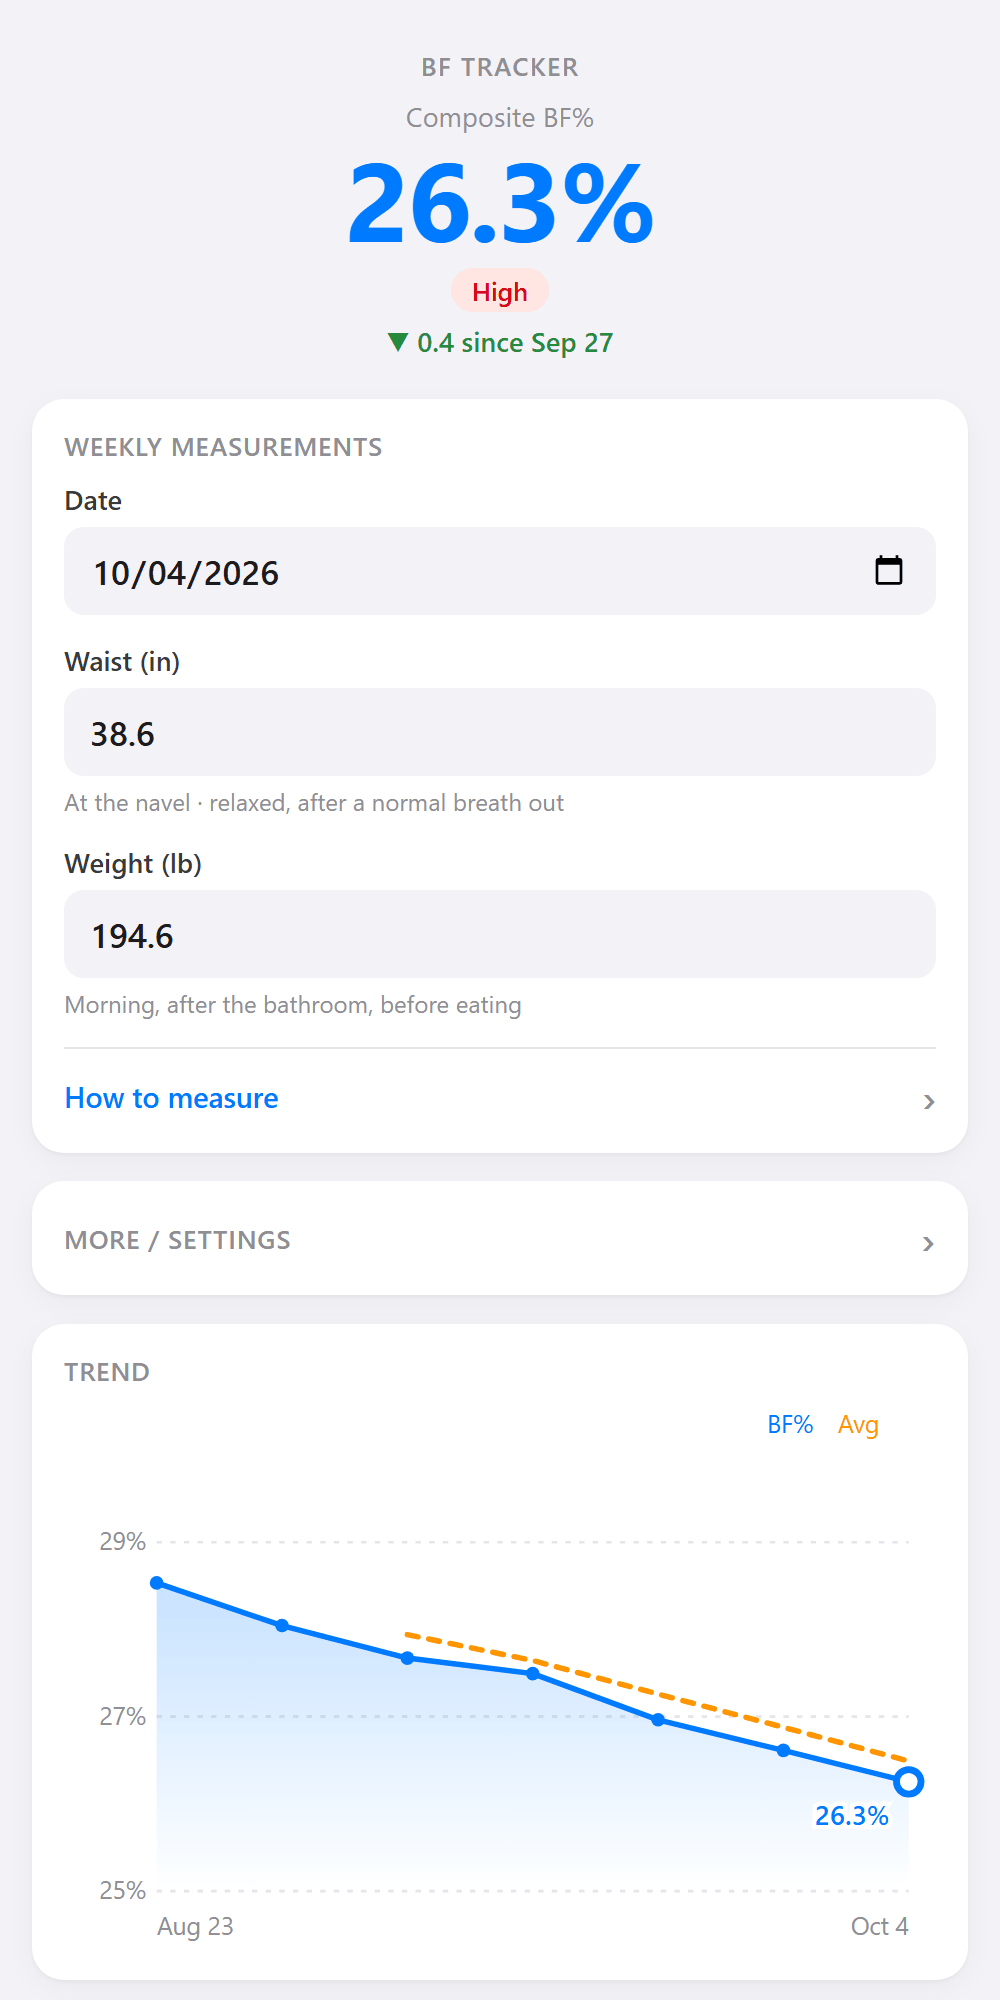
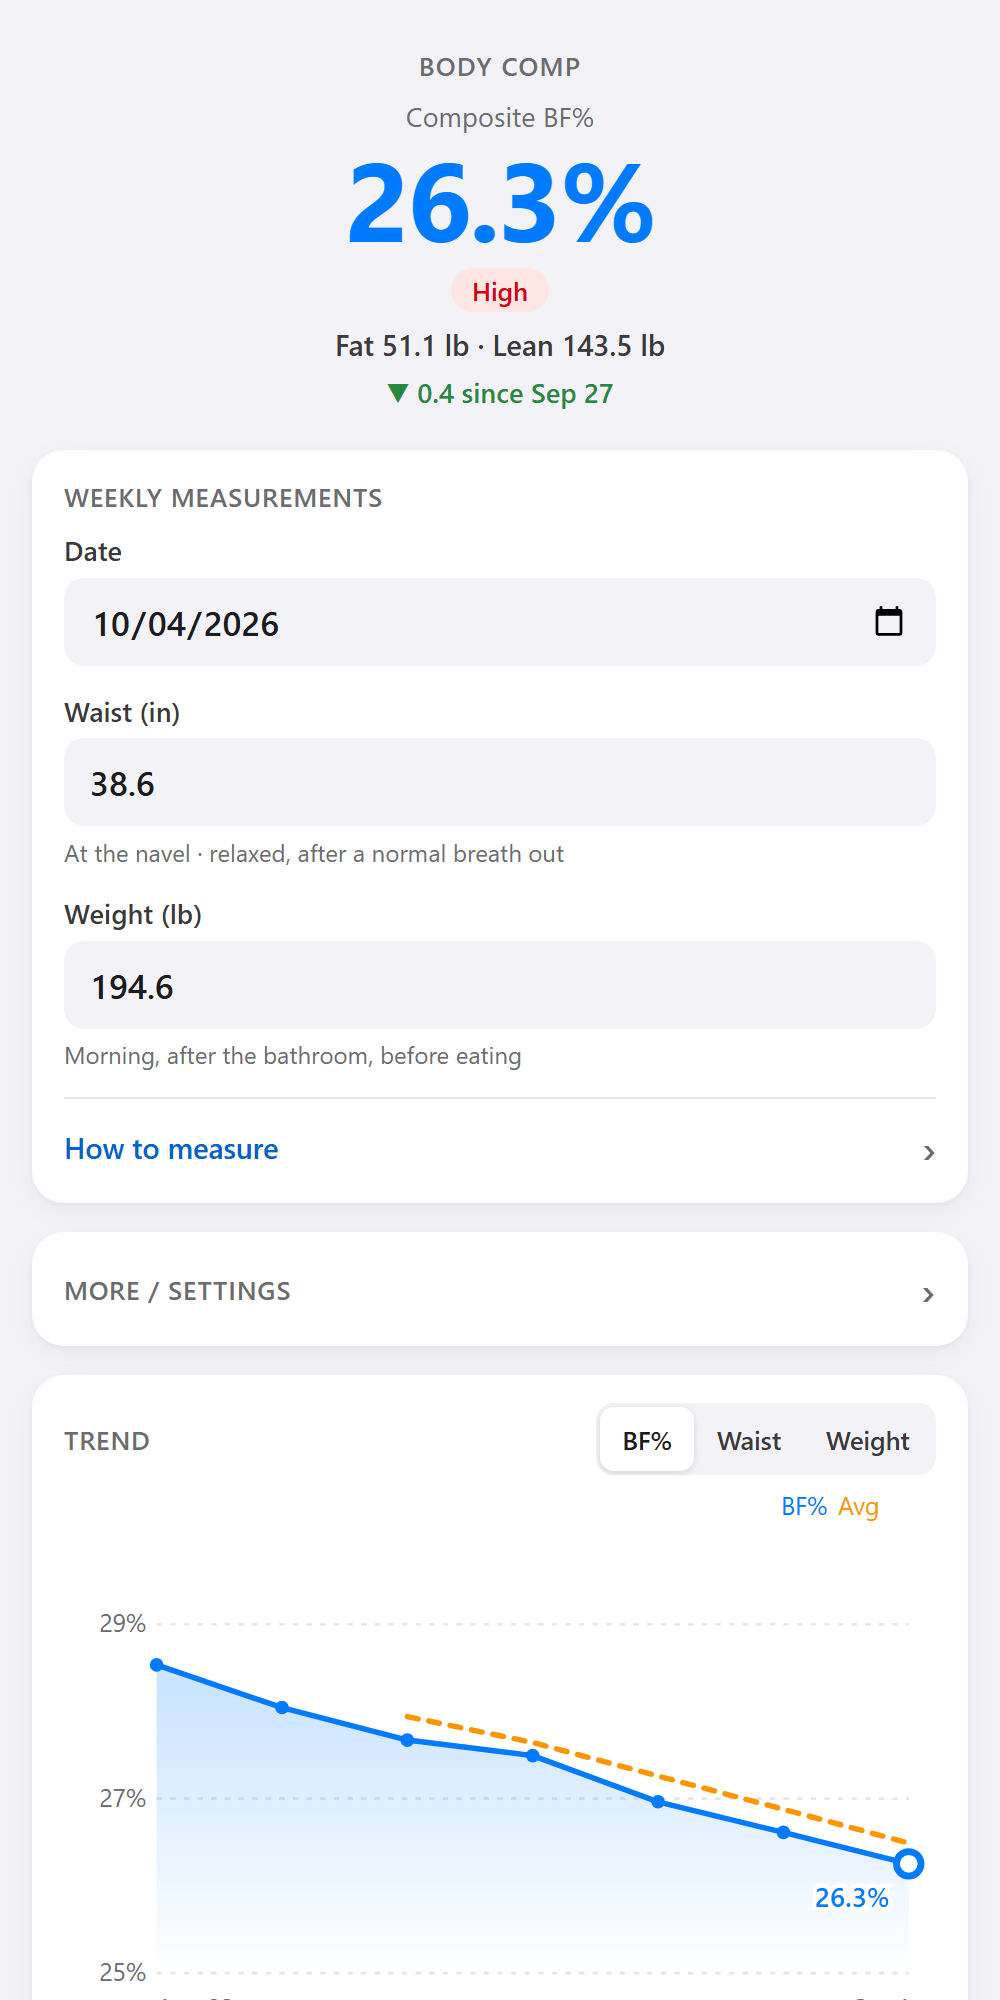
Rebrand to "Body Comp"; show fat and lean mass
- Name/short_name/title/apple-mobile-web-app-title: Body Comp; subtitle
  "Body fat, waist & weight tracker". Icon, repo/URL and storage keys unchanged.
- Header: "Fat 51.1 lb · Lean 143.5 lb" (massSplit in calc.js), display units.
- CSV filename body-comp-YYYY-MM-DD.csv; screenshots regenerated. Cache v6.

diff --git a/app.js b/app.js
@@ -1,4 +1,4 @@
-import { CM_PER_IN, KG_PER_LB, compute, weightedMA, bfCategory } from "./calc.js";
+import { CM_PER_IN, KG_PER_LB, compute, weightedMA, bfCategory, massSplit } from "./calc.js";
 import { toCSV, parseCSV } from "./csv.js";
 
 const ENTRIES_KEY = "bf.entries";
@@ -40,6 +40,7 @@ const $ = (id) => document.getElementById(id);
 const bfCompEl = $("bfCompValue");
 const bfWarningEl = $("bfWarning");
 const bfDeltaEl = $("bfDelta");
+const massSplitEl = $("massSplit");
 const bfCategoryEl = $("bfCategory");
 const dateInput = $("dateInput");
 const waistInput = $("waistInput");
@@ -265,6 +266,14 @@ function update() {
   bfCompEl.textContent = result ? `${result.bfComp.toFixed(1)}%` : "—";
   bfWarningEl.textContent = result?.warning ?? "";
   bfWarningEl.hidden = !result?.warning;
+
+  massSplitEl.hidden = !result;
+  if (result) {
+    const { fatKg, leanKg } = massSplit(m.weightKg, result.bfComp);
+    const unit = isUS() ? "lb" : "kg";
+    const fixed1 = (kg) => Number(massOut(kg)).toFixed(1);
+    massSplitEl.textContent = `Fat ${fixed1(fatKg)} ${unit} · Lean ${fixed1(leanKg)} ${unit}`;
+  }
 
   const category = result && bfCategory(result.bfComp, m.sex);
   bfCategoryEl.hidden = !category;
@@ -554,7 +563,7 @@ function onExportCsv() {
   const url = URL.createObjectURL(new Blob([toCSV(entries)], { type: "text/csv" }));
   const a = document.createElement("a");
   a.href = url;
-  a.download = `bf-tracker-${today()}.csv`;
+  a.download = `body-comp-${today()}.csv`;
   a.click();
   setTimeout(() => URL.revokeObjectURL(url), 1000);
 }

diff --git a/index.html b/index.html
@@ -2,8 +2,9 @@
 <html lang="en">
 <head>
   <meta charset="utf-8" />
-  <title>BF Tracker</title>
-  <meta name="description" content="Weekly body-fat tracker: Navy tape method plus BMI/age composite. Works offline; data stays on your device." />
+  <title>Body Comp</title>
+  <meta name="apple-mobile-web-app-title" content="Body Comp" />
+  <meta name="description" content="Body Comp — body fat, waist and weight tracker. Navy tape method plus BMI/age composite, with fat and lean mass. Works offline; data stays on your device." />
   <meta name="viewport" content="width=device-width, initial-scale=1, viewport-fit=cover" />
   <meta name="theme-color" content="#f2f2f7" />
 
@@ -21,11 +22,12 @@
 <body>
   <main class="app">
     <header class="header">
-      <h1>BF Tracker</h1>
+      <h1>Body Comp</h1>
       <div class="bf-display">
         <span class="bf-label">Composite BF%</span>
         <span id="bfCompValue" class="bf-value">—</span>
         <span id="bfCategory" class="bf-category" hidden></span>
+        <span id="massSplit" class="mass-split" hidden></span>
         <span id="bfDelta" class="bf-delta" hidden></span>
         <span id="bfWarning" class="bf-warning" hidden></span>
       </div>

diff --git a/tests/e2e.test.js b/tests/e2e.test.js
@@ -207,3 +207,24 @@ test("chart: switch metric to waist / weight; choice persists", async () => {
   assert.equal(again.window.document.querySelector('[data-metric="weight"]').getAttribute("aria-pressed"), "true");
   again.close();
 });
+
+test("rebrand: Body Comp name; header shows fat and lean mass in display units", async () => {
+  const { readFileSync } = await import("node:fs");
+  const manifest = JSON.parse(readFileSync(new URL("../manifest.json", import.meta.url), "utf8"));
+  assert.equal(manifest.name, "Body Comp");
+  assert.equal(manifest.short_name, "Body Comp");
+
+  const app = await loadApp();
+  assert.equal(app.window.document.title, "Body Comp");
+  const split = () => app.$("massSplit").textContent;
+  const m = split().match(/^Fat ([\d.]+) lb · Lean ([\d.]+) lb$/);
+  assert.ok(m, split());
+  assert.ok(Math.abs(Number(m[1]) + Number(m[2]) - 200) < 0.15, "fat + lean = weight");
+
+  app.select("unitToggle", "metric");
+  assert.match(split(), /^Fat [\d.]+ kg · Lean [\d.]+ kg$/);
+
+  app.type("weightInput", "");
+  assert.equal(app.$("massSplit").hidden, true);
+  app.close();
+});

diff --git a/tests/calc.test.js b/tests/calc.test.js
@@ -1,6 +1,6 @@
 import { test } from "node:test";
 import assert from "node:assert/strict";
-import { CM_PER_IN, KG_PER_LB, navyBF, bmi, compositeBF, compute, weightedMA, bfCategory } from "../calc.js";
+import { CM_PER_IN, KG_PER_LB, navyBF, bmi, compositeBF, compute, weightedMA, bfCategory, massSplit } from "../calc.js";
 
 const near = (a, b, eps = 0.05) => assert.ok(Math.abs(a - b) < eps, `${a} ≉ ${b}`);
 
@@ -64,4 +64,10 @@ test("BF% category uses sex-specific ACE ranges", () => {
   assert.equal(bfCategory(24, "female").key, "fit");
   assert.equal(bfCategory(31, "female").key, "average");
   assert.equal(bfCategory(32, "female").key, "high");
+});
+
+test("fat / lean mass split from weight and BF%", () => {
+  const { fatKg, leanKg } = massSplit(90, 25);
+  assert.equal(fatKg, 22.5);
+  assert.equal(leanKg, 67.5);
 });

diff --git a/calc.js b/calc.js
@@ -80,3 +80,9 @@ export function bfCategory(bf, sex) {
   const [key, label] = LABELS[i === -1 ? LABELS.length - 1 : i];
   return { key, label };
 }
+
+// Fat mass = weight × BF%; lean (fat-free) mass = the rest. Same unit as weight.
+export function massSplit(weight, bfPercent) {
+  const fatKg = (weight * bfPercent) / 100;
+  return { fatKg, leanKg: weight - fatKg };
+}

diff --git a/styles.css b/styles.css
@@ -104,6 +104,15 @@ body {
   color: #d70015;
 }
 
+.mass-split {
+  display: block;
+  margin-top: 0.4rem;
+  font-size: 0.9rem;
+  font-weight: 500;
+  font-variant-numeric: tabular-nums;
+  color: var(--text-2);
+}
+
 .bf-delta {
   display: block;
   margin-top: 0.35rem;

diff --git a/service-worker.js b/service-worker.js
@@ -1,5 +1,5 @@
 // Bump on each release so installed clients pick up new files.
-const VERSION = "v5";
+const VERSION = "v6";
 const CACHE = `bf-tracker-${VERSION}`;
 
 const PRECACHE = [

diff --git a/README.md b/README.md
@@ -1,13 +1,13 @@
-# BF Tracker
+# Body Comp
 
-Minimal, installable body-fat tracker PWA. Static files, no backend, data in `localStorage`.
+**Body fat, waist & weight tracker.** Minimal, installable PWA: composite body-fat % (Navy tape method + BMI/age), fat and lean mass, weekly trend. Static files, no backend, data in `localStorage`.
 See [REQUIREMENTS.md](REQUIREMENTS.md).
 
 Live: https://mhoffman02.github.io/bf-tracker/
 
 ## Privacy
 
-**Data Not Collected.** BF Tracker has no account, no analytics, no ads and no tracking. Your measurements are stored only in your browser on this device (`localStorage`) and are never sent to a server. The app makes no network requests while in use (enforced by a test); after the first visit it runs fully offline.
+**Data Not Collected.** Body Comp has no account, no analytics, no ads and no tracking. Your measurements are stored only in your browser on this device (`localStorage`) and are never sent to a server. The app makes no network requests while in use (enforced by a test); after the first visit it runs fully offline.
 
 - **Data shared with third parties:** none.
 - **Hosting:** the app's files are served by GitHub Pages, which, like any web host, may log standard request data (e.g. IP address) when the files are downloaded. No measurements are included.

diff --git a/REQUIREMENTS.md b/REQUIREMENTS.md
@@ -1,6 +1,8 @@
-# BF Tracker — Requirements
+# Body Comp — Requirements
 
-Single‑page PWA for tracking weekly body‑fat percentage.
+Single‑page PWA for tracking weekly body composition: body‑fat %, fat and lean mass, waist and weight.
+
+**Branding:** name and home‑screen label “Body Comp”; subtitle “Body fat, waist & weight tracker” (keeps the searched‑for term). Icon stays “BF”. Repo/URL stay `bf-tracker` (installed apps were added from it); storage keys unchanged.
 
 ## 1. Purpose
 
@@ -16,6 +18,7 @@ A minimal, installable single‑page web app (iPhone, iPad, desktop) that tracks
 - Recalculates live as the user types.
 - Shown to 1 decimal place (e.g. `22.4%`).
 - Shows `—` when inputs are incomplete or invalid.
+- Fat / lean mass line: `Fat 51.2 lb · Lean 143.4 lb` — fat = weight × BF%, lean (fat‑free) = weight − fat; display units; hidden when `—`.
 - Range pill under the number (American Council on Exercise ranges, by sex):
 
   | Label     | Male    | Female  |
